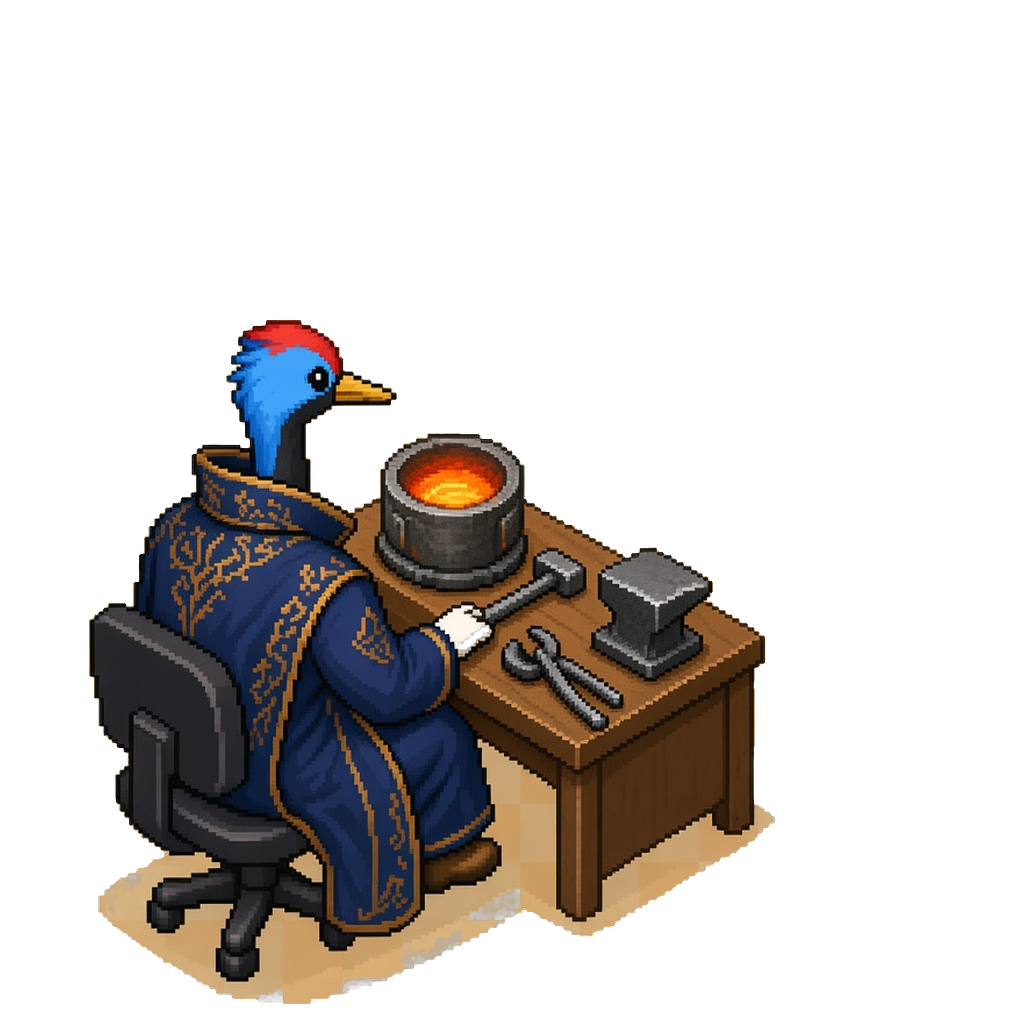
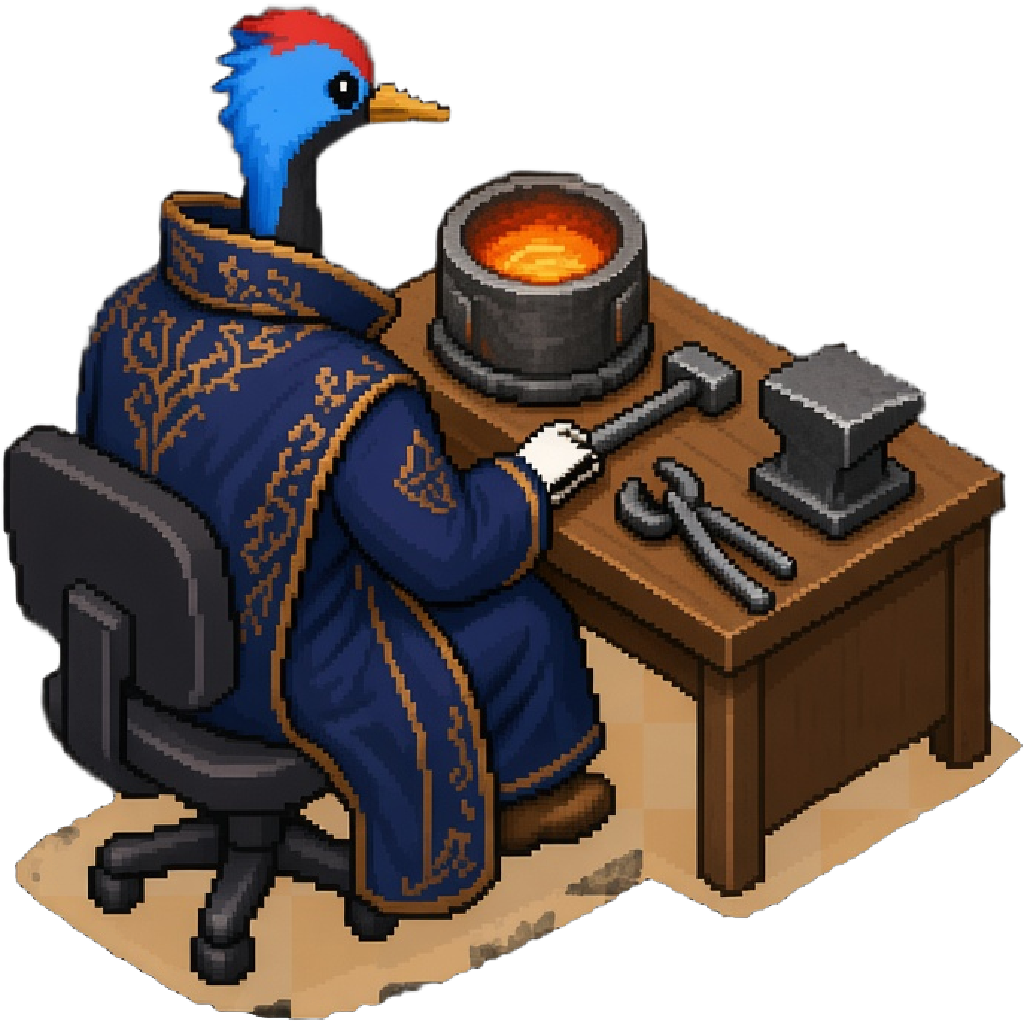
pixel map: fix meeting colors, black laptops, head name tags; refresh forge desk
- Regenerate vignettes 2/3/4 with meet outfit colors, all-black laptops (no notebooks)
- 抉擇塔: 智子 faces table center; 決策官 pagoda on hat front; same-side seating
- HTML name labels near each head via absolute tag positions
- Office forge-desk matches meeting blue-red bird likeness

diff --git a/ai-office-pixel-map.html b/ai-office-pixel-map.html
@@ -438,34 +438,37 @@
       width: min(520px, 88%);
       height: 230px;
       bottom: 8px;
-      display: flex;
-      flex-direction: column;
-      align-items: center;
-      justify-content: flex-end;
-      gap: 2px;
+      position: absolute;
+      left: 50%;
+      transform: translateX(-50%);
     }
     .meeting-vignette {
       max-width: 100%;
-      max-height: 200px;
+      max-height: 210px;
       width: auto;
       height: auto;
       object-fit: contain;
       image-rendering: auto;
       filter: drop-shadow(1px 2px 0 rgba(0,0,0,.28));
       display: block;
+      margin: 0 auto;
+      position: relative;
+      z-index: 1;
     }
-    .meet-tags {
-      display: flex;
-      flex-wrap: wrap;
-      justify-content: center;
-      gap: 4px 8px;
-      max-width: 100%;
-    }
-    .meet-tags .sprite-tag {
-      margin-top: 0;
-      font-size: 0.52rem;
-      max-width: none;
-      z-index: 7;
+    /* Name labels beside each head (percent of stage) */
+    .meet-name {
+      position: absolute;
+      transform: translate(-50%, -100%);
+      font-size: 0.5rem;
+      line-height: 1.1;
+      color: #0f172a;
+      background: rgba(255,255,255,.82);
+      border-radius: 4px;
+      padding: 1px 4px;
+      white-space: nowrap;
+      z-index: 8;
+      pointer-events: none;
+      box-shadow: 0 1px 0 rgba(0,0,0,.12);
     }
     .status.meeting {
       background: #c4b5fd;
@@ -554,8 +557,8 @@
           tint: '#ddd6fe',
           vignette: 'meeting-vignette-2.png',
           members: [
-            { name: '智子', seat: 'zhizi-seat' },
-            { name: '決策官', seat: 'decision-seat' }
+            { name: '智子', seat: 'zhizi-seat', tag: { left: 34, top: 12 } },
+            { name: '決策官', seat: 'decision-seat', tag: { left: 62, top: 10 } }
           ],
           blurb: '會議室 · 群組 · 智子、決策官'
         }
@@ -567,10 +570,10 @@
           tint: '#a5f3fc',
           vignette: 'meeting-vignette-4.png',
           members: [
-            { name: '智子', seat: 'zhizi-seat' },
-            { name: '藍圖官', seat: 'blueprint-seat' },
-            { name: '鑄造使', seat: 'forge-seat' },
-            { name: '文案官', seat: 'copywriter-seat' }
+            { name: '智子', seat: 'zhizi-seat', tag: { left: 28, top: 8 } },
+            { name: '藍圖官', seat: 'blueprint-seat', tag: { left: 58, top: 6 } },
+            { name: '鑄造使', seat: 'forge-seat', tag: { left: 30, top: 58 } },
+            { name: '文案官', seat: 'copywriter-seat', tag: { left: 62, top: 56 } }
           ],
           blurb: '會議室 · 群組 · 智子、藍圖官、鑄造使、文案官'
         },
@@ -580,9 +583,9 @@
           tint: '#fbcfe8',
           vignette: 'meeting-vignette-3.png',
           members: [
-            { name: '智子', seat: 'zhizi-seat' },
-            { name: '藍圖官', seat: 'blueprint-seat' },
-            { name: '文案官', seat: 'copywriter-seat' }
+            { name: '智子', seat: 'zhizi-seat', tag: { left: 24, top: 10 } },
+            { name: '藍圖官', seat: 'blueprint-seat', tag: { left: 48, top: 6 } },
+            { name: '文案官', seat: 'copywriter-seat', tag: { left: 72, top: 10 } }
           ],
           blurb: '會議室 · 群組 · 智子、藍圖官、文案官'
         }
@@ -590,9 +593,9 @@
     };
 
     const FURN_V = 'furn29';
-    const SPRITE_V = 'meet10';
+    const SPRITE_V = 'meet11';
     const SEAT_V = 'seat10';
-    const VIGNETTE_V = 'vig2';
+    const VIGNETTE_V = 'vig3';
 
 
     function checker(tint) {
@@ -663,14 +666,17 @@
     function meetingRoomHtml(m) {
       const { back, front } = splitSeats(m.members);
       const names = m.members.map(x => x.name).join('、');
-      const tags = m.members.map(x => `<span class="sprite-tag">${x.name}</span>`).join('');
       let stage;
       if (m.vignette) {
-        /* One composed vignette: people face table center, coherent scale */
+        /* One composed vignette + HTML name labels near each head */
+        const nameTags = m.members.map(mem => {
+          const t = mem.tag || { left: 50, top: 8 };
+          return `<span class="meet-name" style="left:${t.left}%;top:${t.top}%;">${mem.name}</span>`;
+        }).join('');
         stage = `
           <div class="meeting-stage vignette-mode" aria-hidden="true">
             <img class="meeting-vignette" src="pixel-assets/${m.vignette}?v=${VIGNETTE_V}" alt="" />
-            <div class="meet-tags">${tags}</div>
+            ${nameTags}
           </div>`;
       } else {
         const backLefts = seatLeftPercents(back.length);
